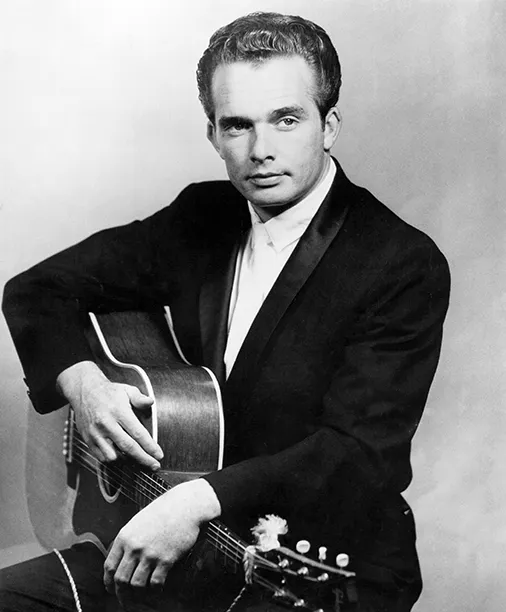
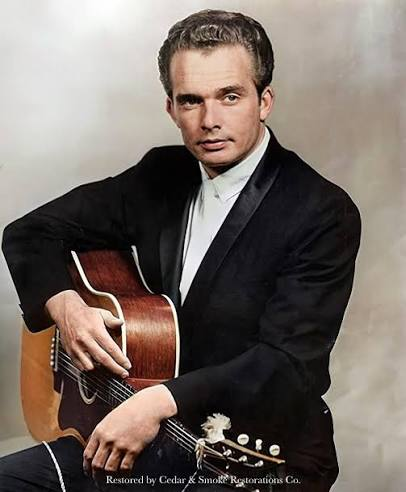
Web Set up Basic

diff --git a/HTML5.html b/HTML5.html
@@ -1,0 +1,140 @@
+<!DOCTYPE html>
+<html lang="en">
+<head>
+    <meta charset="UTF-8">
+    <meta name="viewport" content="width=device-width, initial-scale=1.0">
+    <title>Document</title>
+</head>
+<body>
+    <header>
+        <div>logo</div>
+        <nav>
+            <ul>
+                <li><a href="pages/pagina1.html">page`</a></li>
+                <li><a href="pages/imagenes.html">images</a></li>
+            </ul>
+        </nav>
+    </header>
+    <main>
+        <h1>Bienvenido a mi web</h1>
+        <section>
+            <h2>Contenido principal</h2>
+            <p>Este es el contenido principal de mi web.</p>
+            <div>this is the bollocks</div>
+        </section>
+        section>
+            <h2>Contenido secundario</h2>
+            <p>Este es el contenido secundario de mi web.</p>
+        </section>
+        <section>
+            <h2>Contenido adicional</h2>
+            <p>Este es el contenido adicional de mi web.</p>
+            <img src="images/imagen1.jpg" alt="Imagen 1">
+            <audio controls>
+                <source src="audio/audio1.mp3" type="audio/mpeg">
+                Your browser does not support the audio element.
+            </audio>
+        </section>
+    </main>
+    <aside>
+        <h2>Barra lateral</h2>
+        <p>Este es el contenido de la barra lateral. O en otro lado de la página.</p>
+    </aside>
+    <footer>
+        <p> Todos los derechos reservados. &copy; Tom 2026</p>
+    </footer>
+
+     <header>TITULO Y DESCRIPCION</header>
+    <nav> DENTRO DEL DOMINIO</nav>
+    <main>LIKE THE BODY CONTENIDO PRINCIPAL</main>
+    <section>FOR CONTENT   </section>
+    <article>LIKE SECTION BUT DIFFERENT</article>
+    <aside> NOTHING TO DO WITH THE MAIN CONTENT</aside>
+    <footer>FOR NAVIGATION OUTSIDE THE DOMINIO</footer>
+    
+
+    <span style="background-color: bisque;">
+        This is how span works 
+    </span>
+    <a href="google.com">google</a>
+    <img src="../img/Merle2015.webp" alt="Merle Haggard">
+    
+    <div style="background-color: bisque;">
+
+           <audio>
+        <source src="../audio/Your Audio File.mp3" type="audio/mpeg">
+        <source src="../audio/Your Audio File.ogg" type="audio/ogg">
+        Your browser does not support the audio element.
+    </audio>
+
+       
+    <div>
+
+        <table border="1">
+            <tr>
+                <td>Nombre</td>
+                <td>apellido</td>
+                <td>telefono</td>
+                <td>dni</td>
+            </tr>
+            <tr>
+                <td>Alice</td>
+                <td>james</td>
+                <td>04847483838</td>
+                <td>1234567</td>
+            </tr>
+            <tr>
+                <td>Alice</td>
+                <td>james</td>
+                <td>04847483838</td>
+                <td>1234567</td>
+            </tr>
+            <tr>
+                <td>Alice</td>
+                <td>james</td>
+                <td>04847483838</td> 
+                <td>1234567</td>
+            </tr>
+        </table>
+    </div>
+
+    <table border="1">
+        <thead>
+            <tr>
+                <th>Nombre</th>
+                <th>apellido</th>
+                <th>telefono</th>
+                <th>dni</th>
+            </tr>
+        </thead>
+        <tbody>
+        <tr>
+           <th>Alice</th>
+           <td>james</td>
+           <td>04847483838</td>
+           <td>1234567</td>
+        </tr>
+        <tr>
+           <th>Alice</th>
+           <td>james</td>
+           <td>04847483838</td>
+           <td>1234567</td>
+        </tr>
+        <tr>
+           <th>Alice</th>
+           <td>james</td>
+           <td>04847483838</td> 
+           <td>1234567</td>
+        </tr>
+        </tbody>
+        <tfoot>
+            <tr>
+                <td colspan="4">Tabla de datos de ejemplo</td>
+            </tr>
+        </tfoot>
+    </table>
+     
+
+    
+</body>
+</html>

diff --git a/Mi Web Better/css/styles.css b/Mi Web Better/css/styles.css
@@ -11,22 +11,36 @@ header {
   font-family: "rye", Arial, Helvetica, sans-serif;
 }
 
+* {
+  box-sizing: border-box;
+}
+
 body {
   font-family: "Roboto", sans-serif;
   color: var(--red_american);
-  margin: 0;
+  margin: 2rem;
   padding: 10px;
   background-color: var(--blue_american);
+  background-image:
+    linear-gradient(rgba(60, 59, 110, 0.7)), url("../img/Merle1964.webp");
+  background-size: cover;
   line-height: 1.2rem;
 }
 
 img {
-  display: block;
   margin: 0 auto;
-  max-width: 100%;
+  max-width: min(612px, 100%);
   height: auto;
-  align-items: center;
   box-shadow: 0 2px 4px var(--red_american);
+  filter: grayscale(1);
+}
+
+img:hover {
+  filter: none;
+}
+
+.imgHolder {
+  text-align: center;
 }
 
 h1,
@@ -37,15 +51,36 @@ h3 {
 }
 
 h1 {
-  font-size: 3rem;
-  margin-bottom: 0.5rem;
+  font-size: clamp(0.5rem, 4vw, 6rem);
+  margin-bottom: 1rem;
   text-shadow: 4px 4px 8px var(--blue_american);
+}
+
+h2 {
+  font-size: clamp(0.2rem, 2vw, 3rem);
+  margin-bottom: 1rem;
+  text-shadow: 4px 4px 8px var(--blue_american);
+}
+
+main,
+footer,
+header,
+nav,
+.imgHolder {
+  margin-bottom: 2rem;
+}
+
+main,
+img,
+header,
+nav {
+  border: 1px var(--blue_american) solid;
+  border-radius: 1rem;
 }
 
 main {
   background-color: var(--white_american);
-  padding: 5rem;
-  margin: 2rem auto;
+  padding: 3rem;
   box-shadow: 0 2px 4px var(--red_american);
 }
 
@@ -65,10 +100,6 @@ a:hover {
   cursor: crosshair;
 }
 
-footer {
-  margin-top: 10px;
-}
-
 section span {
   color: var(--blue_american);
   text-shadow: 2px 2px 4px var(--red_american);
@@ -82,8 +113,7 @@ span.hag {
 header {
   background-color: var(--red_american);
   padding: 1rem;
-  margin: 0;
-  line-height: 2rem;
+  line-height: 3rem;
   text-align: center;
   box-shadow: 0 2px 4px var(--white_american);
   color: var(--white_american);
@@ -95,7 +125,6 @@ nav {
   text-align: center;
   box-shadow: 0 2px 4px var(--red_american);
   color: var(--blue_american);
-  margin-bottom: 1rem;
 }
 
 /*
@@ -109,8 +138,13 @@ summary:hover {
 }
 
 summary {
+  font-family: "rye";
   font-weight: bold;
   color: var(--red_american);
+}
+
+p a {
+  font-weight: bold;
 }
 
 details {

diff --git a/Mi Web Better/index.html b/Mi Web Better/index.html
@@ -44,23 +44,26 @@
         </p>
       </details>
     </main>
-    <nav>
-      <h3 class="headerInaMain">
-        Where shall we start with The <span class="hag">Hag</span>?
-      </h3>
-      <ul>
-        <li>
-          <a href="pages/pagina1.html"
-            >Read All about <strong>Merle Haggard</strong></a
-          >
-        </li>
-        <li>
-          <a href="pages/imagenes.html"
-            >View Images of <strong>Merle Haggard</strong></a
-          >
-        </li>
-        <li><a href="../index.html">Go back to 2 pages</a></li>
-      </ul>
-    </nav>
+
+    <footer>
+      <nav>
+        <h3 class="headerInaMain">
+          Where shall we start with The <span class="hag">Hag</span>?
+        </h3>
+        <ul>
+          <li>
+            <a href="pages/pagina1.html"
+              >Read All about <strong>Merle Haggard</strong></a
+            >
+          </li>
+          <li>
+            <a href="pages/imagenes.html"
+              >View Images of <strong>Merle Haggard</strong></a
+            >
+          </li>
+          <li><a href="../index.html">Go back to 2 pages</a></li>
+        </ul>
+      </nav>
+    </footer>
   </body>
 </html>

diff --git a/Mi Web Better/pages/imagenes.html b/Mi Web Better/pages/imagenes.html
@@ -33,19 +33,18 @@
       <h2>Images of Merle Haggard</h2>
     </header>
 
-    <section>
+    <section class="imgHolder">
       <h3>Merle Haggard in 1964 after recording "Mama Tried"</h3>
-      <span
-        ><a href="pagina1.html#early-years"
-          ><img
-            src="../img/Merle1964.webp"
-            onmouseover="document.getElementById('singMeBackHome').play()"
-            onmouseout="document.getElementById('singMeBackHome').pause()"
-            alt="Merle Haggard in 1964"
-            title="Merle Haggard in 1964"
-            id="merle1964"
-            loading="lazy" /></a
-      ></span>
+      <a href="pagina1.html#early-years"
+        ><img
+          src="../img/Merle1964.webp"
+          onmouseover="document.getElementById('singMeBackHome').play()"
+          onmouseout="document.getElementById('singMeBackHome').pause()"
+          alt="Merle Haggard in 1964"
+          title="Merle Haggard in 1964"
+          id="merle1964"
+          loading="lazy"
+      /></a>
       <h3>Merle Haggard in 1973 after recording "Workin' Man Blues"</h3>
       <a href="pagina1.html#1964-1973"
         ><img
